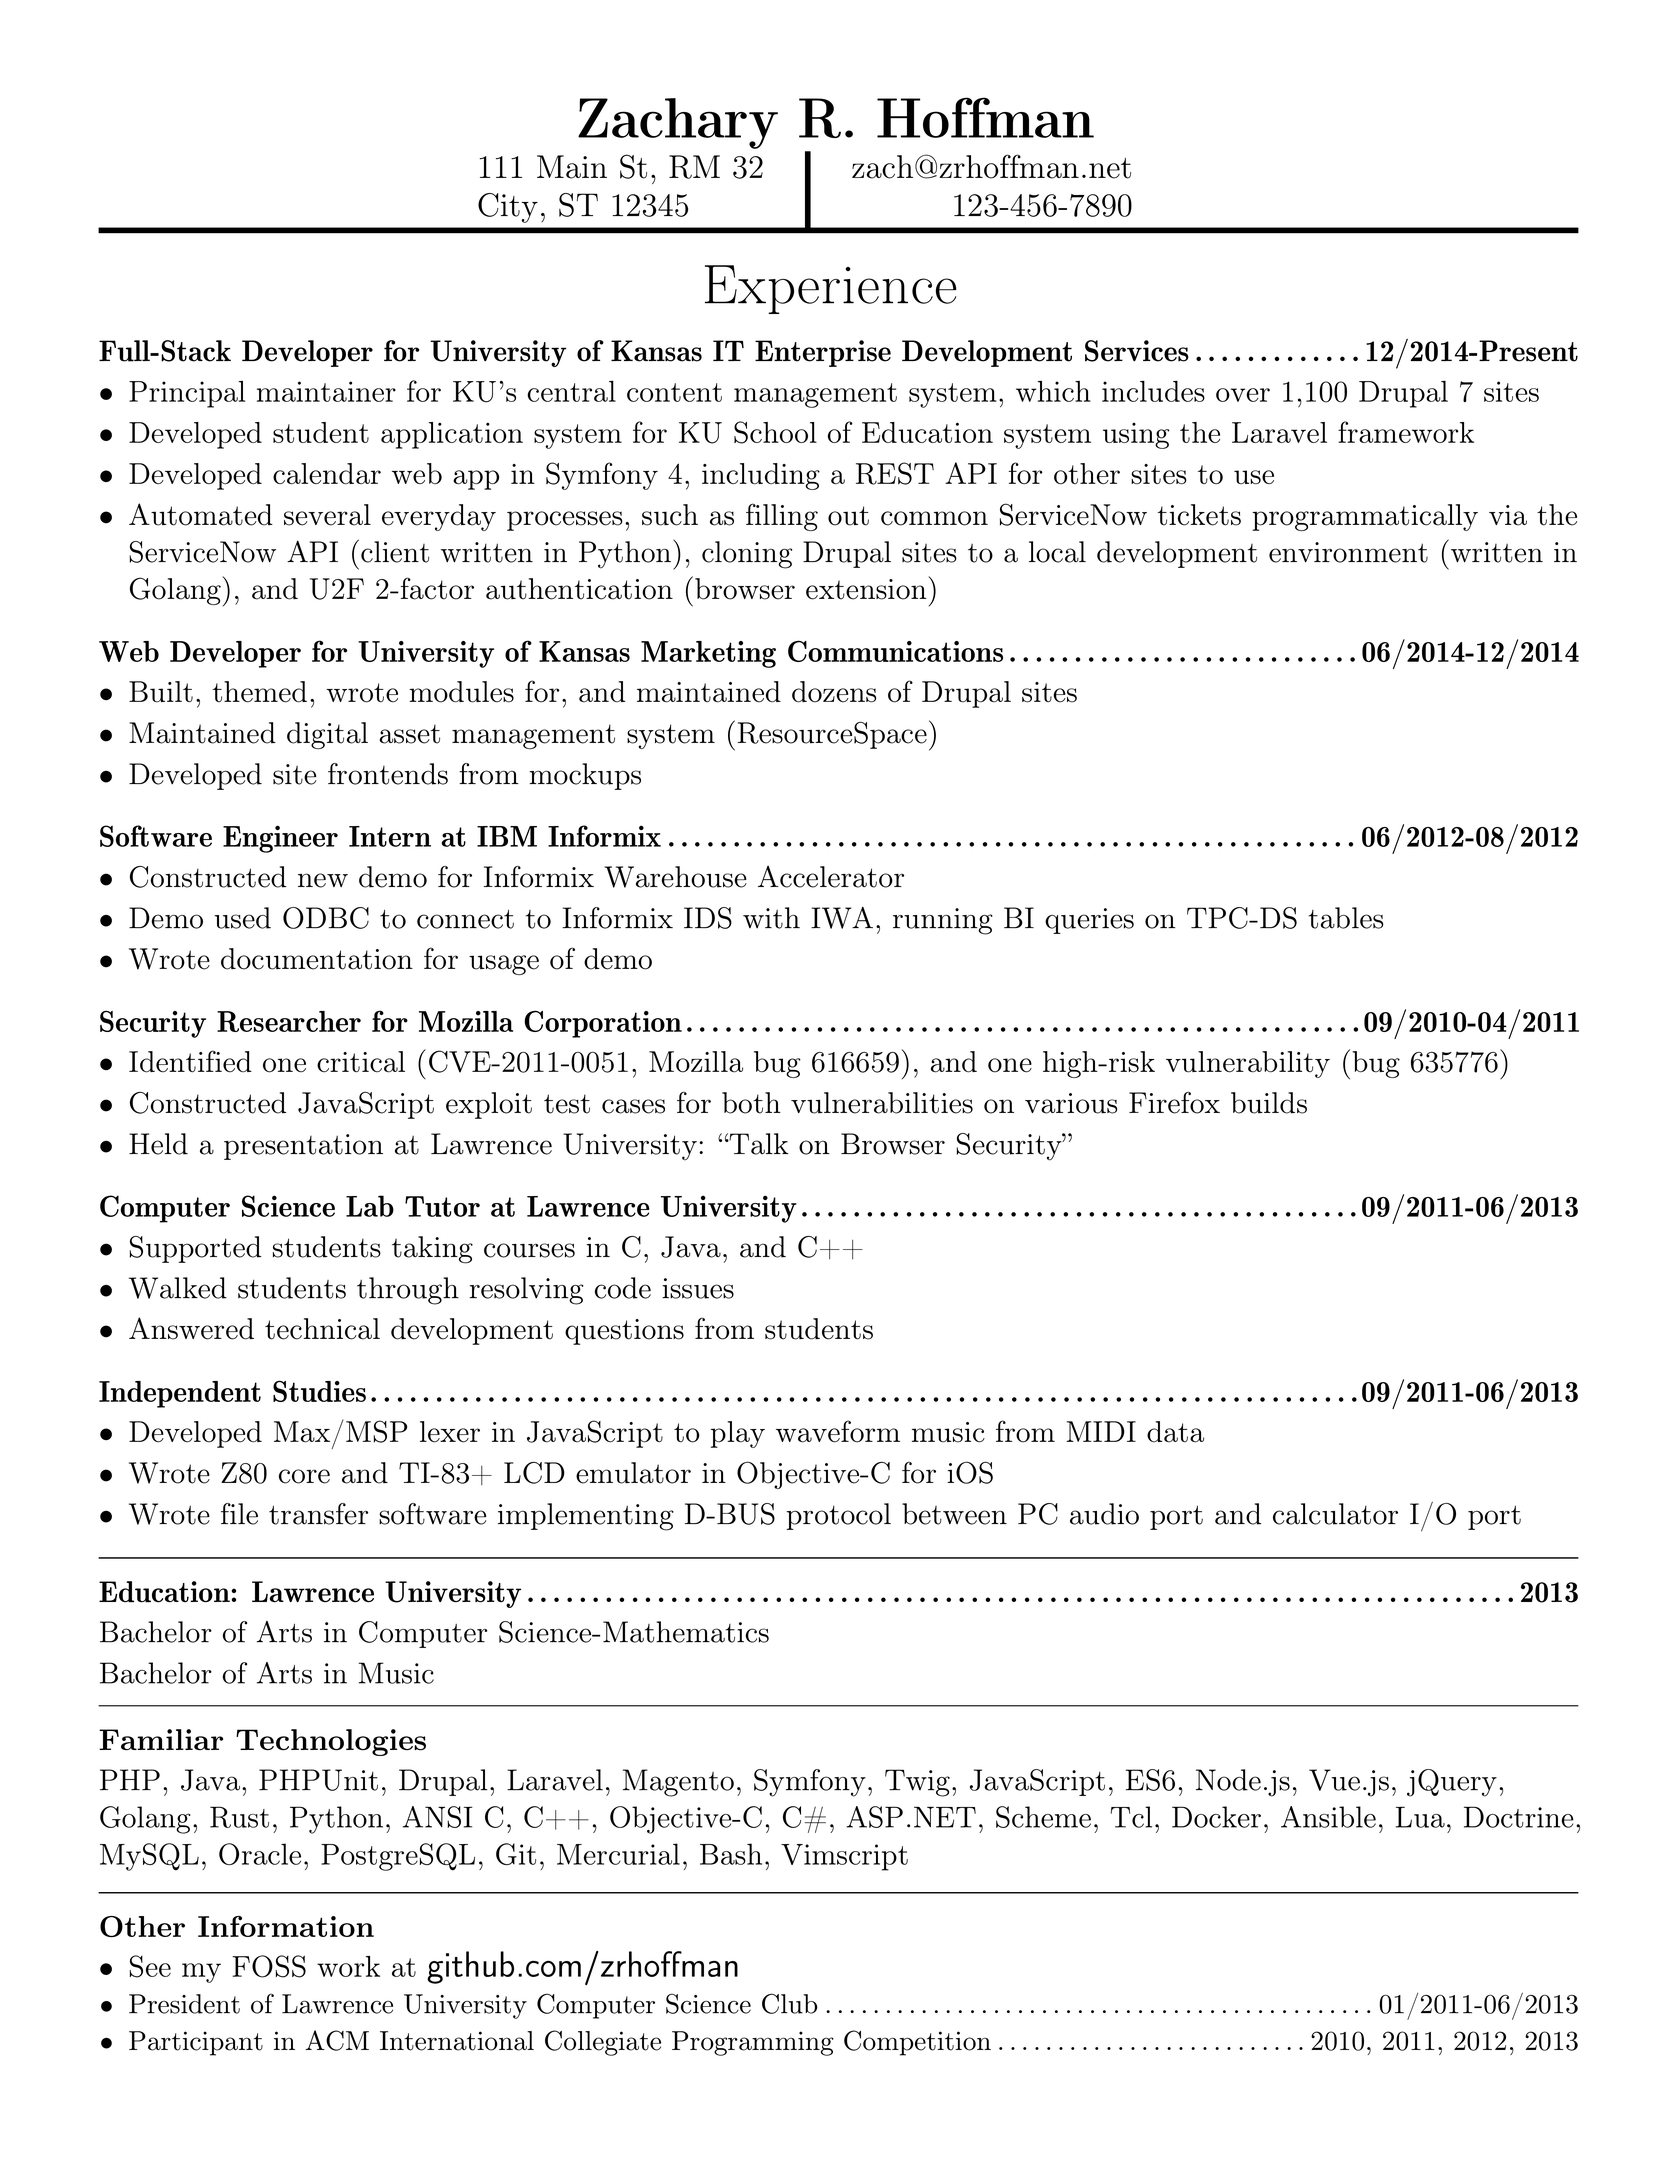
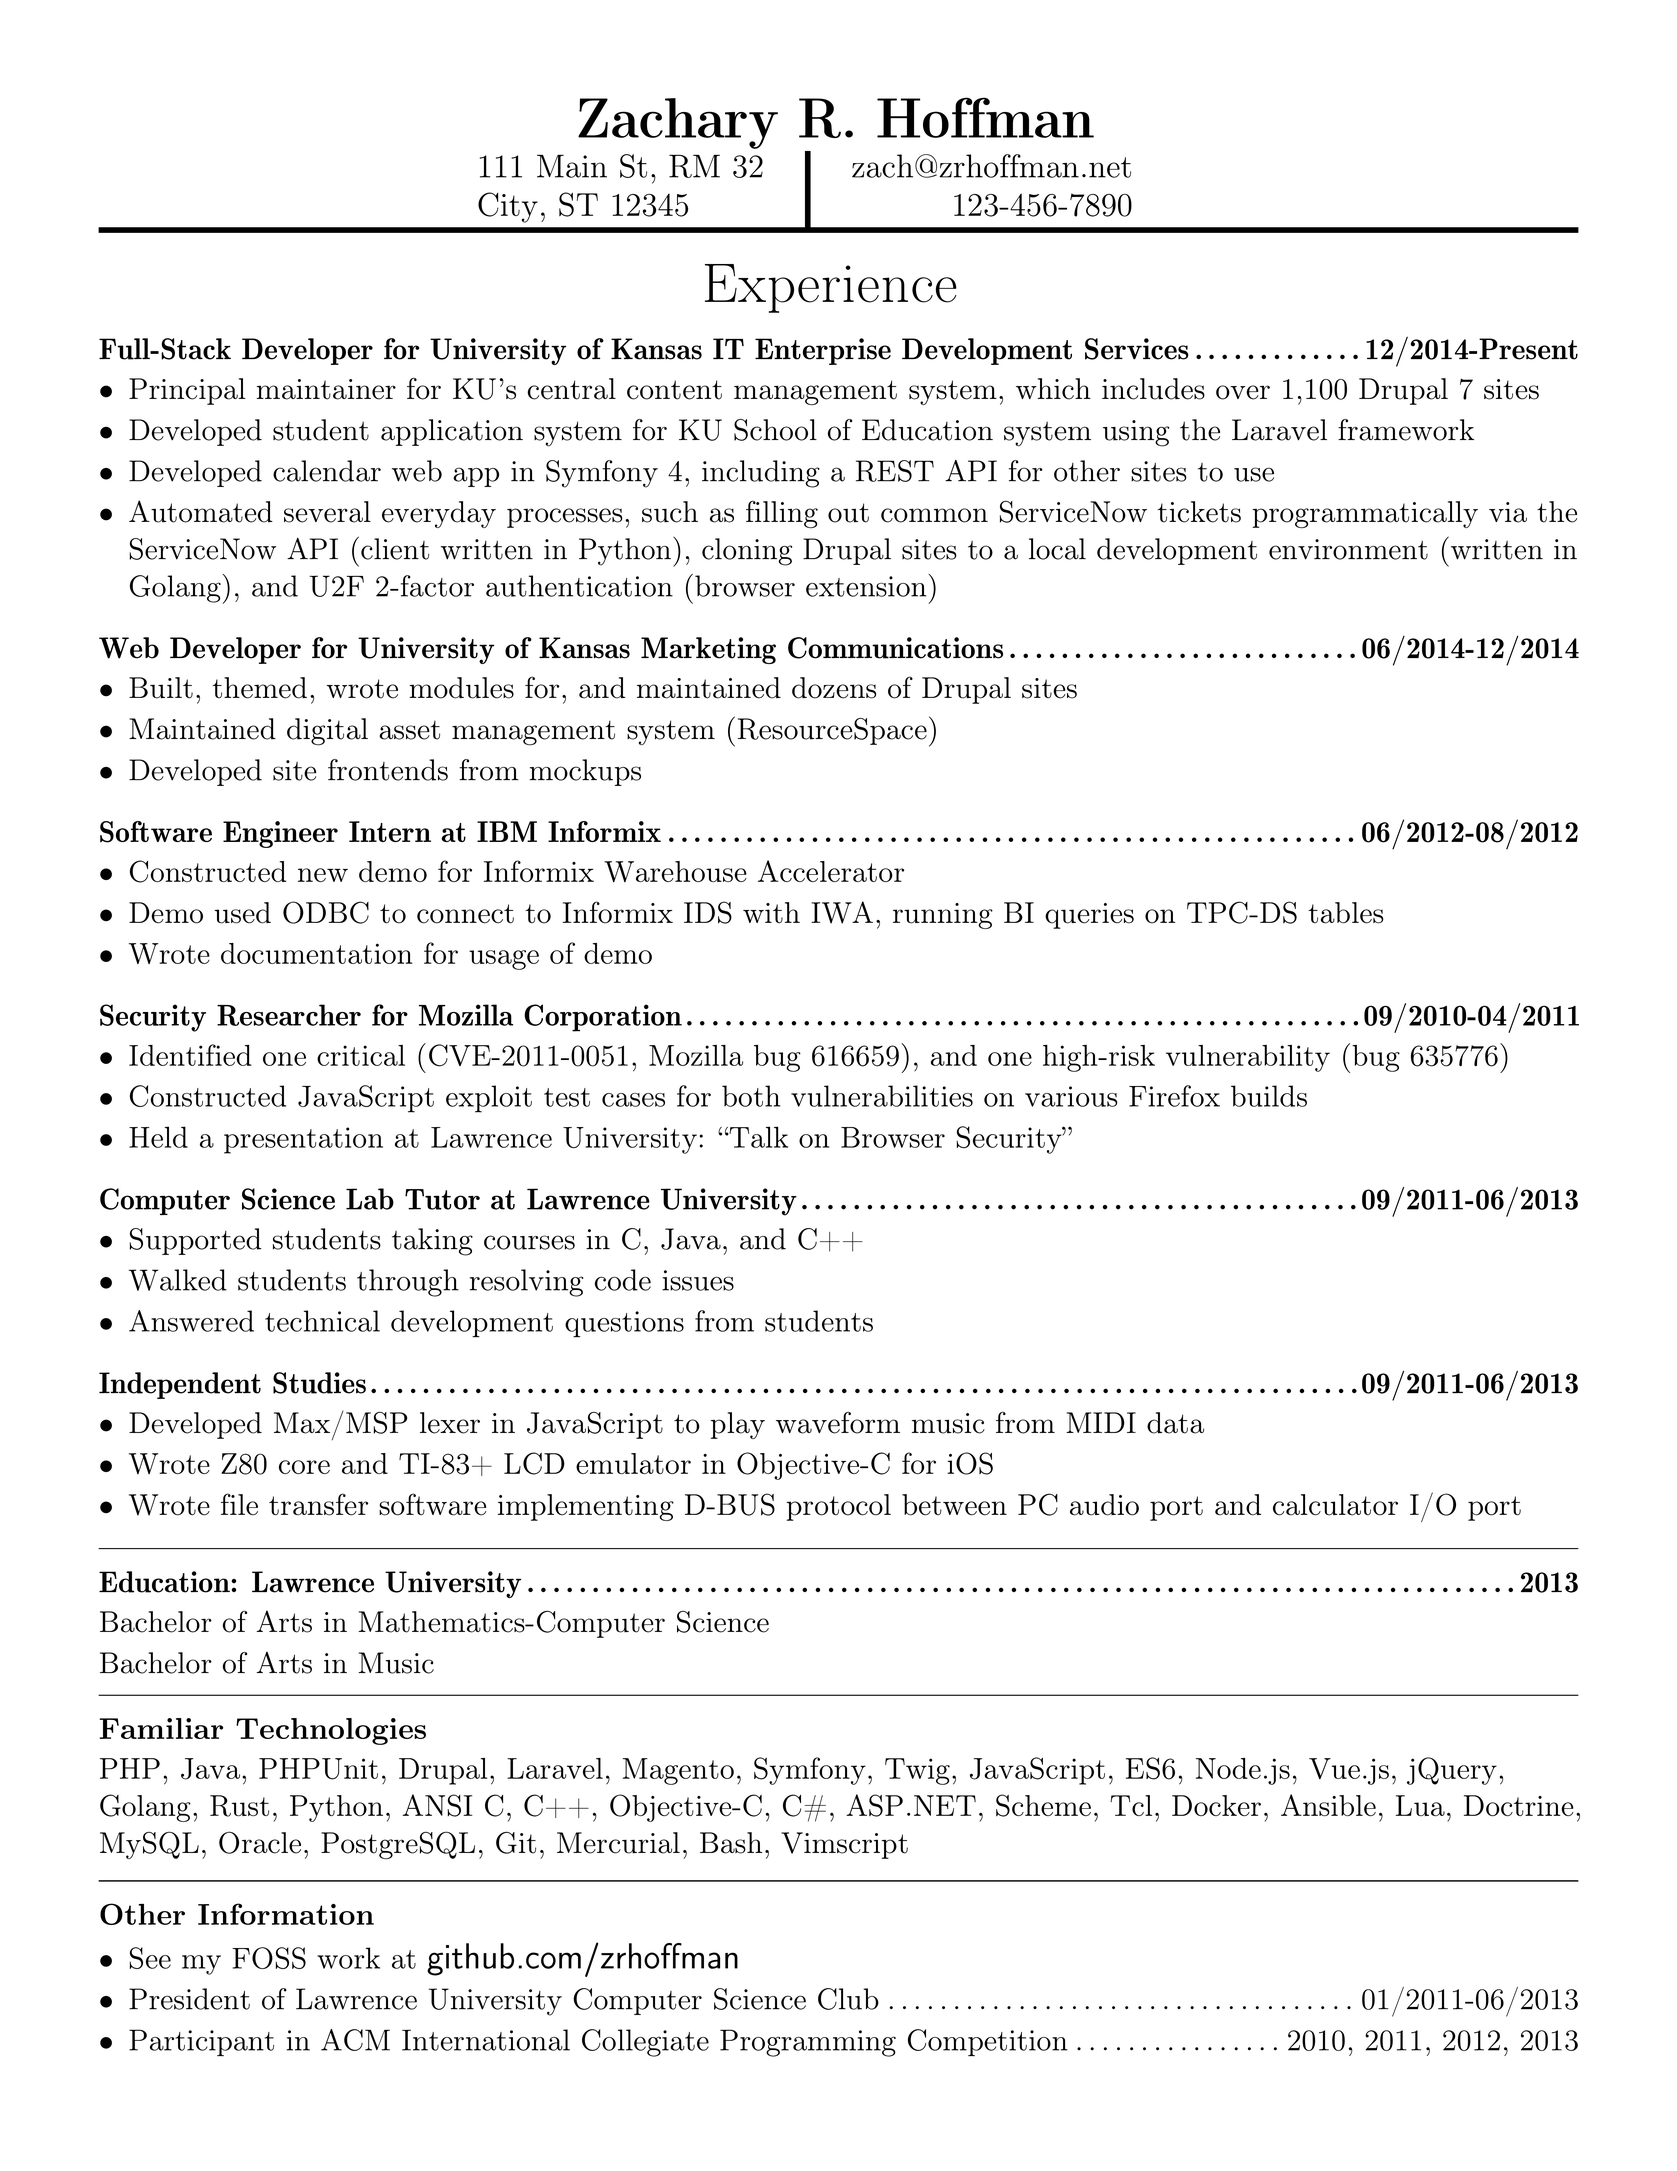
Computer Science-Mathematics -> Mathematics-Computer Science (#1)

diff --git a/zach_hoffman_resume.tex b/zach_hoffman_resume.tex
@@ -136,7 +136,7 @@
     \dottitle{Education: Lawrence University}{2013}\vspace{-0.05cm}
     \setlist[itemize]{leftmargin=0pt,itemsep=-1mm}
     \begin{itemize}[label={}]
-        \item Bachelor of Arts in Computer Science-Mathematics
+        \item Bachelor of Arts in Mathematics-Computer Science
         \item Bachelor of Arts in Music
     \end{itemize}
 }
